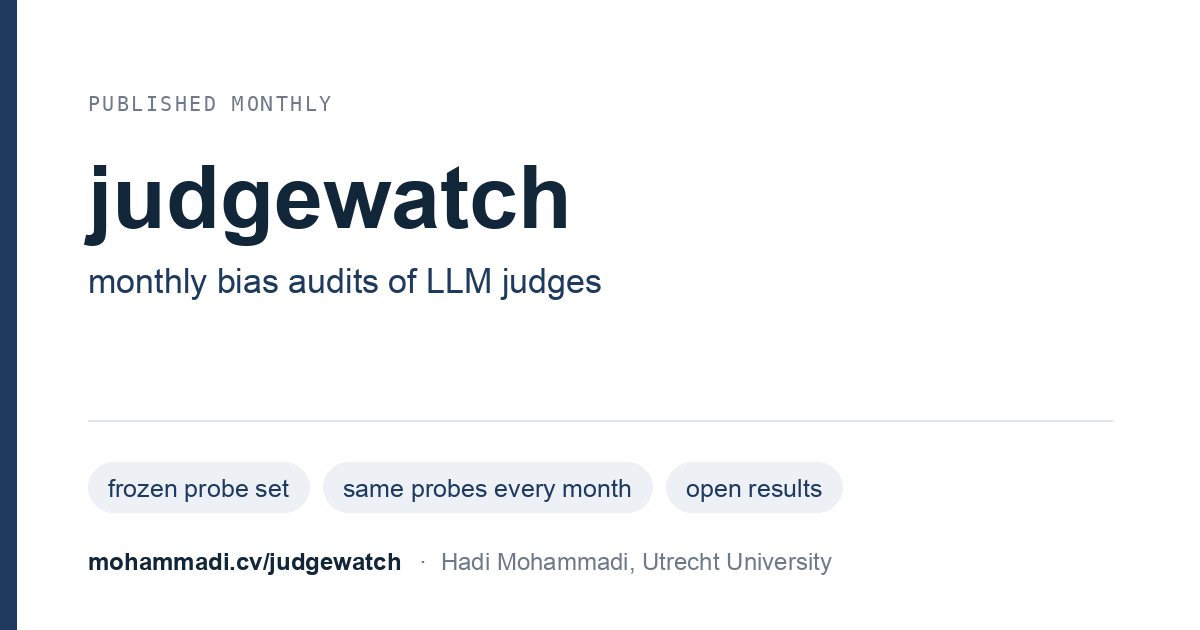
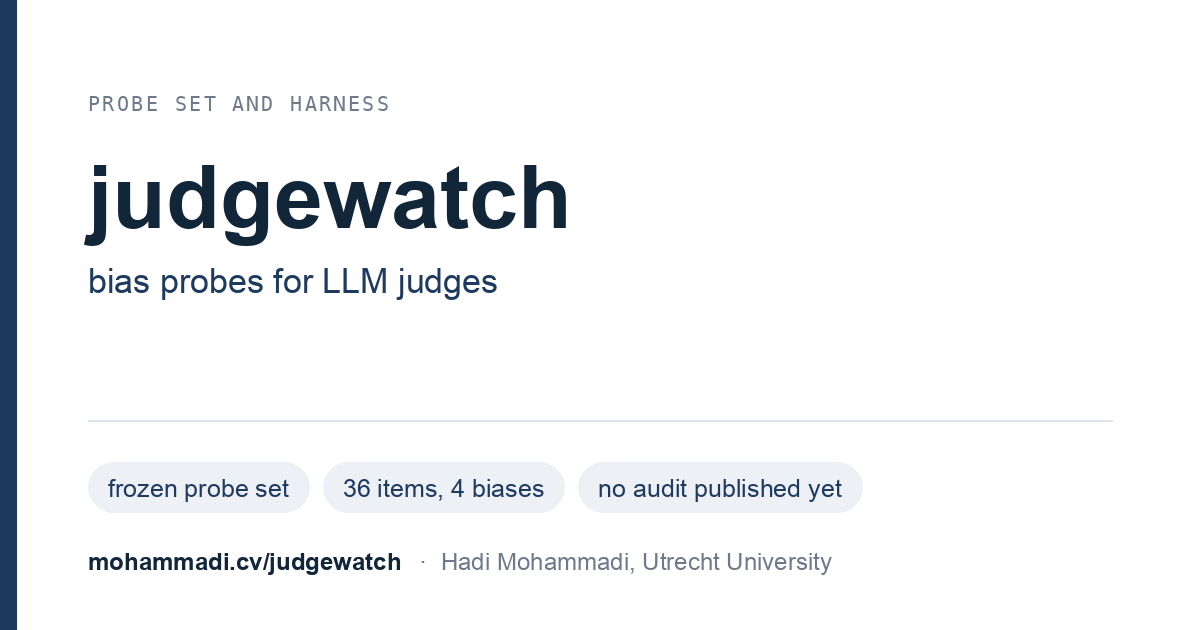
Say what judgewatch is today: probes and a harness, no audit yet

diff --git a/docs/index.html b/docs/index.html
@@ -3,18 +3,18 @@
 <head>
 <meta charset="utf-8">
 <meta name="viewport" content="width=device-width, initial-scale=1">
-<title>judgewatch &mdash; monthly bias audits of LLM judges</title>
+<title>judgewatch: bias probes for LLM judges</title>
   <link rel="canonical" href="https://mohammadi.cv/judgewatch/">
   <meta property="og:site_name" content="Hadi Mohammadi">
   <meta property="og:image" content="https://mohammadi.cv/judgewatch/social-card.png">
   <meta name="twitter:card" content="summary_large_image">
-  <meta name="twitter:title" content="judgewatch — monthly bias audits of LLM judges">
-  <meta name="twitter:description" content="Monthly bias audits of LLM judges: the same frozen probe set, every month, so drift and bias are visible.">
+  <meta name="twitter:title" content="judgewatch: bias probes for LLM judges">
+  <meta name="twitter:description" content="A frozen probe set for the known biases of LLM judges, and a harness that runs it against a judge model.">
   <meta name="twitter:image" content="https://mohammadi.cv/judgewatch/social-card.png">
   <meta name="author" content="Hadi Mohammadi">
-<meta name="description" content="Monthly bias audits of LLM judges: the same frozen probe set, every month, so drift and bias are visible.">
-<meta property="og:title" content="judgewatch — monthly bias audits of LLM judges">
-<meta property="og:description" content="Monthly bias audits of LLM judges: the same frozen probe set, every month, so drift and bias are visible.">
+<meta name="description" content="A frozen probe set for the known biases of LLM judges, and a harness that runs it against a judge model.">
+<meta property="og:title" content="judgewatch: bias probes for LLM judges">
+<meta property="og:description" content="A frozen probe set for the known biases of LLM judges, and a harness that runs it against a judge model.">
 <meta property="og:url" content="https://mohammadi.cv/judgewatch/">
 <meta property="og:type" content="website">
 
@@ -99,9 +99,9 @@
 <body>
 <main>
   <h1><a href="https://github.com/mohammadi-hadi/judgewatch">judgewatch</a></h1>
-  <p class="tagline">Monthly bias audits of LLM judges: the same frozen probe set, every month, so drift and bias are visible.</p>
-  <p class="status">No audits published yet &mdash; the first monthly run is pending.</p>
-  <div class="empty">Results will appear here after the first audit. Run one yourself: see the <a href="https://github.com/mohammadi-hadi/judgewatch">repository</a>.</div>
+  <p class="tagline">A frozen probe set for the known biases of LLM judges, and a harness that runs it against a judge model.</p>
+  <p class="status">No audit has been published yet.</p>
+  <div class="empty">Results appear here when an audit is published. To run the probes against a judge yourself, see the <a href="https://github.com/mohammadi-hadi/judgewatch">repository</a>.</div>
   <h2>Method</h2>
   <ul class="method">
     <li><strong>Position</strong>: every answer pair is judged in both orders; a flip means position, not content, decided.</li>
@@ -112,8 +112,7 @@
   </ul>
   <footer>
     <a href="https://github.com/mohammadi-hadi/judgewatch">Source &amp; methodology</a> &middot;
-    <a href="data.json">Data (JSON)</a> &middot;
-    <a href="https://github.com/mohammadi-hadi/judgewatch#sponsoring">Sponsor the audit</a> &middot; MIT licensed
+    <a href="data.json">Data (JSON)</a> &middot; MIT licensed
   </footer>
 </main>
 </body>

diff --git a/judgewatch/sitegen.py b/judgewatch/sitegen.py
@@ -13,8 +13,8 @@ from pathlib import Path
 REPO_URL = "https://github.com/mohammadi-hadi/judgewatch"
 SITE_URL = "https://mohammadi.cv/judgewatch/"
 TAGLINE = (
-    "Monthly bias audits of LLM judges: the same frozen probe set, "
-    "every month, so drift and bias are visible."
+    "A frozen probe set for the known biases of LLM judges, "
+    "and a harness that runs it against a judge model."
 )
 
 # (metric key, panel title, note, reference line as a fraction or None)
@@ -216,10 +216,11 @@ def render(payload):
             f"{_table(judges, previous_metrics, history)}</div>{delta_note}"
         )
     else:
-        status = "No audits published yet &mdash; the first monthly run is pending."
+        status = "No audit has been published yet."
         content = (
-            '<div class="empty">Results will appear here after the first audit. '
-            f'Run one yourself: see the <a href="{REPO_URL}">repository</a>.</div>'
+            '<div class="empty">Results appear here when an audit is published. '
+            "To run the probes against a judge yourself, see the "
+            f'<a href="{REPO_URL}">repository</a>.</div>'
         )
 
     generated = payload.get("generated_at") or ""
@@ -232,9 +233,9 @@ def render(payload):
 <head>
 <meta charset="utf-8">
 <meta name="viewport" content="width=device-width, initial-scale=1">
-<title>judgewatch &mdash; monthly bias audits of LLM judges</title>
+<title>judgewatch: bias probes for LLM judges</title>
 <meta name="description" content="{TAGLINE}">
-<meta property="og:title" content="judgewatch — monthly bias audits of LLM judges">
+<meta property="og:title" content="judgewatch: bias probes for LLM judges">
 <meta property="og:description" content="{TAGLINE}">
 <meta property="og:url" content="{SITE_URL}">
 <meta property="og:type" content="website">
@@ -333,8 +334,7 @@ def render(payload):
   </ul>
   <footer>
     <a href="{REPO_URL}">Source &amp; methodology</a> &middot;
-    <a href="data.json">Data (JSON)</a> &middot;
-    <a href="{REPO_URL}#sponsoring">Sponsor the audit</a> &middot; MIT licensed
+    <a href="data.json">Data (JSON)</a> &middot; MIT licensed
   </footer>
 </main>
 </body>

diff --git a/tests/test_report_site.py b/tests/test_report_site.py
@@ -110,6 +110,7 @@ def test_site_empty_state(tmp_path):
     latest = tmp_path / "latest.json"
     latest.write_text(json.dumps({"run": None, "judges": [], "history": []}))
     html = build_site(latest, tmp_path / "docs").read_text()
-    assert "first monthly run is pending" in html
+    assert "No audit has been published yet." in html
+    assert "sponsor" not in html.lower()
     leader = json.loads((tmp_path / "docs" / "badges" / "leader.json").read_text())
     assert leader["message"] == "no audits yet"

diff --git a/README.md b/README.md
@@ -7,17 +7,19 @@
 [![Python](https://img.shields.io/badge/python-3.10%2B-blue.svg)](https://www.python.org/downloads/)
 [![License: MIT](https://img.shields.io/badge/License-MIT-yellow.svg)](LICENSE)
 
-*Monthly bias audits of LLM judges.*
+*A frozen bias probe set for LLM judges, and a harness to run it.*
 
 </div>
 
 LLM-as-judge is now the default way to evaluate models, agents, and prompts —
 but judges have measurable biases, and they drift when providers update models
-behind stable API names. judgewatch runs a **frozen probe set** against popular
-judge models on a monthly schedule and publishes the results, so you can see
-which judge to trust this month and whether yours changed under you.
+behind stable API names. judgewatch is a **frozen probe set** for four of
+those biases and a harness that runs it against a judge model, scores the
+verdicts, and builds a static results page from the output.
 
-**Leaderboard:** https://mohammadi.cv/judgewatch/ (first audit pending)
+No audit has been run or published yet. Every judge in `judges.yaml` is
+disabled, and the results page at https://mohammadi.cv/judgewatch/ is empty:
+its `data.json` has `"run": null` and an empty `history`.
 
 ## What it measures
 
@@ -36,7 +38,7 @@ not noise.
 
 - The probe set (`judgewatch/probes/probeset_v1.yaml`, shipped with the
   package) is frozen and versioned. The same
-  36 hand-written items run every month, so results are comparable across
+  36 hand-written items go into every run, so results are comparable across
   runs and drift is attributable to the judge, not the test.
 - Every pairwise item is judged in **both orders**, which separates position
   effects from content preference. The verbosity probe also runs both orders,
@@ -51,8 +53,10 @@ not noise.
 
 The biases probed here are documented in the literature — see Zheng et al.
 2023, ["Judging LLM-as-a-Judge with MT-Bench and Chatbot
-Arena"](https://arxiv.org/abs/2306.05685). judgewatch's contribution is
-longitudinal: the same probes, monthly, across judges.
+Arena"](https://arxiv.org/abs/2306.05685). judgewatch is built for the
+longitudinal view: because the probes never change, runs on different judges
+and at different times can be compared directly. No runs have been published,
+so that comparison does not exist yet.
 
 ## Run it yourself
 
@@ -80,8 +84,8 @@ judgewatch report
 judgewatch site
 ```
 
-Probe calls run 4-way concurrent by default (`--workers`), a judge finishes in
-a couple of minutes, and progress is printed as each probe starts.
+Probe calls run 4-way concurrent by default (`--workers`), and progress is
+printed as each probe starts.
 
 ## Gate your CI on it
 
@@ -107,53 +111,43 @@ risk tolerance. `--save results.json` keeps the full per-item records.
 
 ## Data
 
-Everything the leaderboard shows is also published as JSON:
+The results page publishes its data as JSON:
 
 **https://mohammadi.cv/judgewatch/data.json**
 
-The payload carries the latest run, a `generated_at` timestamp, and the full
-month-by-month `history`, so you can build badges, dashboards, or your own
-trend analysis on top of it. Raw per-item records (every verdict, every score)
-live in the repo under `data/runs/<month>/`.
+Today that file holds no results: `run` is `null`, and `judges` and `history`
+are empty. When a run is published, the payload carries the latest run, a
+`generated_at` timestamp, and the run-by-run `history`, so you can build
+badges, dashboards, or your own trend analysis on top of it. Raw per-item
+records (every verdict, every score) are written under `data/runs/<month>/`;
+the repo has none yet.
 
-Per-judge [shields.io](https://shields.io) endpoints are published under
-`badges/` — to show a judge's current audit result in your own README:
+The site build also writes [shields.io](https://shields.io) endpoints under
+`badges/`: one per audited judge, plus `badges/leader.json` for the
+best-ranked judge. Only `leader.json` exists today, and it reads "no audits
+yet". Once results for a judge are published, its badge can go in your README:
 
 ```
 ![judgewatch](https://img.shields.io/endpoint?url=https%3A%2F%2Fmohammadi.cv%2Fjudgewatch%2Fbadges%2Fclaude-haiku-4-5.json)
 ```
-
-(`badges/leader.json` always points at the currently best-ranked judge.)
 
 ### Cost
 
 A full audit is 96 calls per judge with short prompts. Assuming roughly 700
 input and 200–500 output tokens per call (more for models that think by
 default), one judge costs about **$0.15–0.25** on a Haiku-class model and
-**under $2** on an Opus-class model at August 2026 API prices — a five-judge
-monthly audit is a few dollars.
-
-## Sponsoring
-
-judgewatch is free and MIT-licensed, and the monthly runs are paid out of
-pocket. Sponsorship decides how far the audit scales:
-
-- more judges per month (including expensive frontier models),
-- larger probe sets and new probes (self-preference is next — see roadmap),
-- and the maintenance time to keep results trustworthy.
-
-Sponsors are credited on the leaderboard, and sponsor votes pick which judge
-models get added next. Sponsor via [GitHub
-Sponsors](https://github.com/sponsors/mohammadi-hadi).
+**under $2** on an Opus-class model at August 2026 API prices, so auditing
+five judges costs a few dollars. These figures come from the token assumptions
+above, not from a measured run.
 
 ## Roadmap
 
 - Self-preference probe: does a judge favor answers written by its own model
-  family? (Needs a generation stage, so it lands once sponsorship covers it.)
-- Richer trend charts (the table already shows month-over-month deltas and a
-  position-flip sparkline once two runs exist).
+  family? (Needs a generation stage.)
+- Richer trend charts (the site build already renders run-over-run deltas and
+  a position-flip sparkline once two runs exist).
 - `probeset_v2.yaml` with community-contributed items (v1 stays frozen and
-  keeps running for comparability).
+  stays in use, so runs on it remain comparable).
 
 ## Part of evalstack
 
